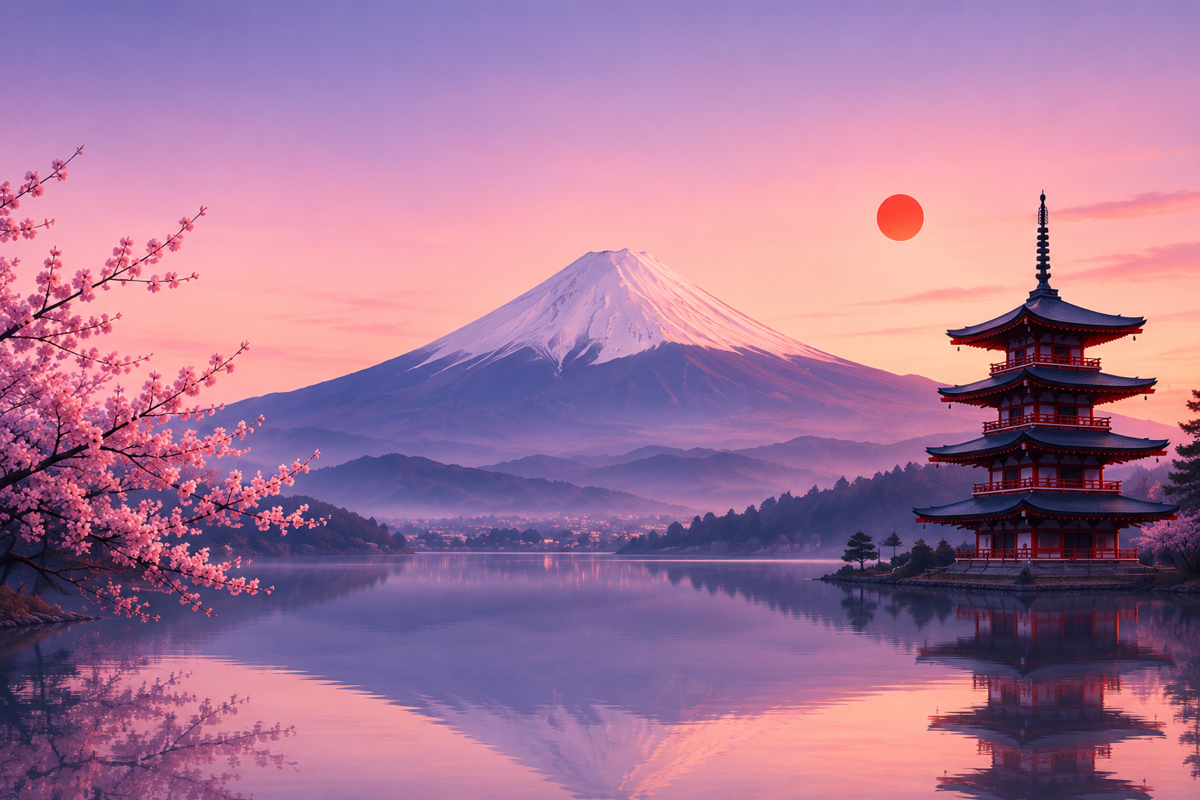
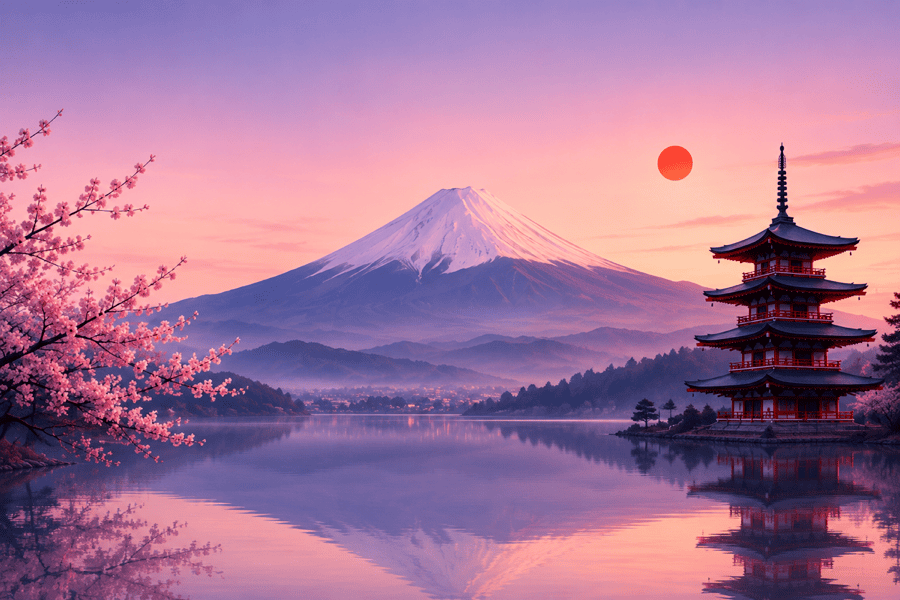
feat(viewer): sandvich panelini hero görseli + Apple sadeliğiyle yenile
- hamb-menu-top-bg.png hero'ya cover + okunabilirlik scrim'i + palete akan
  alt gradyanla yerleştirildi; marka rozeti gölge/halka, cam efektli kapatma
- yolculuk özeti başlık/badge tekrarından arındırılıp sade 3 metrik şeridine
- 'Gezi 1/2' hardcoded etiketi drawer.flights.leg l10n anahtarına taşındı
- header görseli 1.4 MB -> 203 KB (900x600, pngquant)

diff --git a/mobile/lib/features/plans/plan_viewer_screen.dart b/mobile/lib/features/plans/plan_viewer_screen.dart
@@ -5879,88 +5879,44 @@ class _DrawerStaySummary extends StatelessWidget {
     ];
 
     return Container(
-      padding: const EdgeInsets.fromLTRB(16, 14, 16, 14),
+      padding: const EdgeInsets.symmetric(horizontal: 8, vertical: 16),
       decoration: BoxDecoration(
         color: p.card,
         borderRadius: BorderRadius.circular(18),
         border: Border.all(color: p.border),
       ),
-      child: Column(
+      child: Row(
         children: [
-          Row(
-            children: [
-              Container(
-                width: 38,
-                height: 38,
-                decoration: BoxDecoration(
-                  color: p.fuji.withValues(alpha: .10),
-                  shape: BoxShape.circle,
-                ),
-                alignment: Alignment.center,
-                child: Icon(Icons.route_rounded, color: p.fuji, size: 21),
-              ),
-              const SizedBox(width: 10),
-              Expanded(
-                child: Text(
-                  trip.title,
-                  maxLines: 2,
-                  overflow: TextOverflow.ellipsis,
-                  style: TextStyle(
-                    color: p.textPrimary,
-                    fontSize: 17,
-                    fontWeight: FontWeight.w800,
+          for (var i = 0; i < metrics.length; i++) ...[
+            Expanded(
+              child: Column(
+                children: [
+                  Icon(metrics[i].$1, color: metrics[i].$4, size: 20),
+                  const SizedBox(height: 7),
+                  Text(
+                    metrics[i].$2,
+                    style: TextStyle(
+                      color: p.textPrimary,
+                      fontSize: 21,
+                      fontWeight: FontWeight.w800,
+                      height: 1,
+                    ),
                   ),
-                ),
-              ),
-              Container(
-                padding:
-                    const EdgeInsets.symmetric(horizontal: 10, vertical: 6),
-                decoration: BoxDecoration(
-                  color: p.sakura.withValues(alpha: .12),
-                  borderRadius: BorderRadius.circular(999),
-                ),
-                child: Text(
-                  '$dayCount ${s.s('viewer.metric.days')}',
-                  style: TextStyle(
-                    color: p.sakura,
-                    fontSize: 12,
-                    fontWeight: FontWeight.w700,
+                  const SizedBox(height: 4),
+                  Text(
+                    metrics[i].$3,
+                    style: TextStyle(
+                      color: p.textSecondary,
+                      fontSize: 11.5,
+                      fontWeight: FontWeight.w500,
+                    ),
                   ),
-                ),
+                ],
               ),
-            ],
-          ),
-          const SizedBox(height: 16),
-          Row(
-            children: [
-              for (var i = 0; i < metrics.length; i++) ...[
-                Expanded(
-                  child: Column(
-                    children: [
-                      Icon(metrics[i].$1, color: metrics[i].$4, size: 19),
-                      const SizedBox(height: 6),
-                      Text(
-                        metrics[i].$2,
-                        style: TextStyle(
-                          color: p.textPrimary,
-                          fontSize: 20,
-                          fontWeight: FontWeight.w800,
-                          height: 1,
-                        ),
-                      ),
-                      const SizedBox(height: 4),
-                      Text(
-                        metrics[i].$3,
-                        style: TextStyle(color: p.textSecondary, fontSize: 11),
-                      ),
-                    ],
-                  ),
-                ),
-                if (i < metrics.length - 1)
-                  Container(width: 1, height: 54, color: p.border),
-              ],
-            ],
-          ),
+            ),
+            if (i < metrics.length - 1)
+              Container(width: 1, height: 44, color: p.border),
+          ],
         ],
       ),
     );
@@ -6066,6 +6022,14 @@ class _DrawerBrandMark extends StatelessWidget {
           end: Alignment.bottomRight,
         ),
         borderRadius: BorderRadius.circular(size * 0.28),
+        border: Border.all(color: Colors.white.withValues(alpha: .28)),
+        boxShadow: [
+          BoxShadow(
+            color: Colors.black.withValues(alpha: .22),
+            blurRadius: 10,
+            offset: const Offset(0, 3),
+          ),
+        ],
       ),
       alignment: Alignment.center,
       child: Text(
@@ -6081,7 +6045,9 @@ class _DrawerBrandMark extends StatelessWidget {
   }
 }
 
-/// Drawer'ın üst kısmı — marka, aktif gezi ve kapatma aksiyonu.
+/// Drawer'ın üst kısmı — Japonya hero görseli üzerinde marka, aktif gezi ve
+/// kapatma aksiyonu. Görsel `cover` ile üst şeridi doldurur; alt kenarda
+/// palete uygun bir gradient scrim ile drawer gövdesine kusursuz karışır.
 class _DrawerHero extends StatelessWidget {
   const _DrawerHero({required this.palette, required this.tripTitle});
   final ViewerPalette palette;
@@ -6091,60 +6057,131 @@ class _DrawerHero extends StatelessWidget {
   Widget build(BuildContext context) {
     final p = palette;
     final s = LanguageScope.of(context);
-    return DecoratedBox(
-      decoration: BoxDecoration(
-        gradient: LinearGradient(
-          begin: Alignment.topLeft,
-          end: Alignment.bottomRight,
-          colors: [
-            p.fuji.withValues(alpha: .16),
-            p.sakura.withValues(alpha: .10),
-            p.bg,
-          ],
-        ),
-      ),
-      child: SafeArea(
-        bottom: false,
-        child: Padding(
-          padding: const EdgeInsets.fromLTRB(18, 14, 12, 16),
-          child: Row(
-            children: [
-              _DrawerBrandMark(palette: p, size: 46),
-              const SizedBox(width: 12),
-              Expanded(
-                child: Column(
-                  crossAxisAlignment: CrossAxisAlignment.start,
-                  mainAxisSize: MainAxisSize.min,
-                  children: [
-                    Text(
-                      s.s('drawer.brand'),
-                      style: TextStyle(
-                        color: p.textPrimary,
-                        fontSize: 22,
-                        fontWeight: FontWeight.w800,
-                        letterSpacing: -.6,
-                      ),
-                    ),
-                    const SizedBox(height: 2),
-                    Text(
-                      tripTitle.isEmpty ? s.s('drawer.tagline') : tripTitle,
-                      maxLines: 1,
-                      overflow: TextOverflow.ellipsis,
-                      style: TextStyle(
-                        color: p.textSecondary,
-                        fontSize: 12,
-                        fontWeight: FontWeight.w500,
-                      ),
-                    ),
-                  ],
+    final topInset = MediaQuery.paddingOf(context).top;
+    // Görsel alanı: status bar + sabit hero yüksekliği. Referans oran korunur.
+    const heroBody = 132.0;
+    return SizedBox(
+      height: topInset + heroBody,
+      child: Stack(
+        fit: StackFit.expand,
+        children: [
+          // 1) Arka plan görseli — tüm hero'yu kaplar.
+          Image.asset(
+            'assets/images/hamb-menu-top-bg.png',
+            fit: BoxFit.cover,
+            alignment: Alignment.center,
+            // Görsel yüklenemezse palet gradyanına düş.
+            errorBuilder: (_, __, ___) => DecoratedBox(
+              decoration: BoxDecoration(
+                gradient: LinearGradient(
+                  begin: Alignment.topLeft,
+                  end: Alignment.bottomRight,
+                  colors: [p.fuji, p.sakura],
                 ),
               ),
-              IconButton(
-                icon: Icon(Icons.close_rounded, color: p.textPrimary),
-                onPressed: () => Navigator.of(context).pop(),
-                tooltip: MaterialLocalizations.of(context).closeButtonTooltip,
+            ),
+          ),
+          // 2) Okunabilirlik scrim'i — üstte hafif koyu, altta palet bg'sine
+          //    geçiş. Beyaz metin her temada net durur, gövdeye kusursuz akar.
+          DecoratedBox(
+            decoration: BoxDecoration(
+              gradient: LinearGradient(
+                begin: Alignment.topCenter,
+                end: Alignment.bottomCenter,
+                stops: const [0, .45, 1],
+                colors: [
+                  Colors.black.withValues(alpha: .22),
+                  Colors.black.withValues(alpha: .06),
+                  p.bg,
+                ],
               ),
-            ],
+            ),
+          ),
+          // 3) İçerik — marka rozeti, başlık, kapatma.
+          Positioned(
+            left: 18,
+            right: 10,
+            bottom: 14,
+            child: Row(
+              children: [
+                _DrawerBrandMark(palette: p, size: 46),
+                const SizedBox(width: 12),
+                Expanded(
+                  child: Column(
+                    crossAxisAlignment: CrossAxisAlignment.start,
+                    mainAxisSize: MainAxisSize.min,
+                    children: [
+                      Text(
+                        s.s('drawer.brand'),
+                        style: const TextStyle(
+                          color: Colors.white,
+                          fontSize: 24,
+                          fontWeight: FontWeight.w800,
+                          letterSpacing: -.6,
+                          shadows: [
+                            Shadow(
+                              color: Color(0x66000000),
+                              blurRadius: 8,
+                              offset: Offset(0, 1),
+                            ),
+                          ],
+                        ),
+                      ),
+                      const SizedBox(height: 2),
+                      Text(
+                        tripTitle.isEmpty ? s.s('drawer.tagline') : tripTitle,
+                        maxLines: 1,
+                        overflow: TextOverflow.ellipsis,
+                        style: TextStyle(
+                          color: Colors.white.withValues(alpha: .92),
+                          fontSize: 12.5,
+                          fontWeight: FontWeight.w600,
+                          shadows: const [
+                            Shadow(
+                              color: Color(0x59000000),
+                              blurRadius: 6,
+                              offset: Offset(0, 1),
+                            ),
+                          ],
+                        ),
+                      ),
+                    ],
+                  ),
+                ),
+                _DrawerHeroCloseButton(
+                  onTap: () => Navigator.of(context).pop(),
+                  tooltip:
+                      MaterialLocalizations.of(context).closeButtonTooltip,
+                ),
+              ],
+            ),
+          ),
+        ],
+      ),
+    );
+  }
+}
+
+/// Hero görseli üzerinde okunabilir, cam efektli kapatma düğmesi.
+class _DrawerHeroCloseButton extends StatelessWidget {
+  const _DrawerHeroCloseButton({required this.onTap, required this.tooltip});
+  final VoidCallback onTap;
+  final String tooltip;
+
+  @override
+  Widget build(BuildContext context) {
+    return Tooltip(
+      message: tooltip,
+      child: Material(
+        color: Colors.black.withValues(alpha: .28),
+        shape: const CircleBorder(),
+        clipBehavior: Clip.antiAlias,
+        child: InkWell(
+          onTap: onTap,
+          child: const SizedBox(
+            width: 36,
+            height: 36,
+            child: Icon(Icons.close_rounded, color: Colors.white, size: 20),
           ),
         ),
       ),
@@ -6549,13 +6586,16 @@ class _DrawerFlightsMiniState extends State<_DrawerFlightsMini> {
                   if (outbound.isNotEmpty)
                     _legCard(
                       context: context,
-                      tripLabel: 'Gezi 1',
+                      tripLabel: s.p('drawer.flights.leg', {'n': '1'}),
                       legs: outbound,
                     ),
                   if (ret.isNotEmpty)
                     _legCard(
                       context: context,
-                      tripLabel: outbound.isNotEmpty ? 'Gezi 2' : 'Gezi 1',
+                      tripLabel: s.p(
+                        'drawer.flights.leg',
+                        {'n': outbound.isNotEmpty ? '2' : '1'},
+                      ),
                       legs: ret,
                     ),
                 ],

diff --git a/mobile/lib/core/l10n.dart b/mobile/lib/core/l10n.dart
@@ -2826,6 +2826,10 @@ const Map<String, Map<AppLang, String>> _strings = {
     AppLang.tr: '{n} uçuş',
     AppLang.en: '{n} flights',
   },
+  'drawer.flights.leg': {
+    AppLang.tr: 'Gezi {n}',
+    AppLang.en: 'Trip {n}',
+  },
   'drawer.hotels.count': {
     AppLang.tr: '{n} otel',
     AppLang.en: '{n} hotels',

diff --git a/docs/CURRENT_TASK.md b/docs/CURRENT_TASK.md
@@ -23,6 +23,13 @@ hiyerarşisi, tema seçici ve uçuş özeti hedefli testleri başarılıdır.
 
 ## Tamamlananlar (bu ve önceki oturumlardan)
 
+- ✅ **2026-08-01** Viewer hamburger (sandvich) paneli görsel olarak yenilendi:
+  `assets/images/hamb-menu-top-bg.png` hero görseli `cover` + okunabilirlik
+  scrim'i + palete akan alt gradyanla üst başlığa yerleştirildi; marka rozeti
+  gölge/halka ile fotoğrafın üstünde okunur oldu, cam efektli kapatma düğmesi
+  eklendi. Yolculuk özet kartı başlık/badge tekrarından arındırılıp sade üç
+  metrik şeridine indirildi. `flutter analyze` temiz; qa_scenarios geçti.
+
 - ✅ **2026-08-01** Uygulama kabuğu `AppTheme.light`, viewer yeni kurulum
   varsayılanı `appleLight` oldu; kaydedilmiş `viewer:theme` tercihi korunuyor.
 - ✅ **2026-08-01** Hamburger menüsü küçülten `FittedBox` yapısından çıkarılıp
